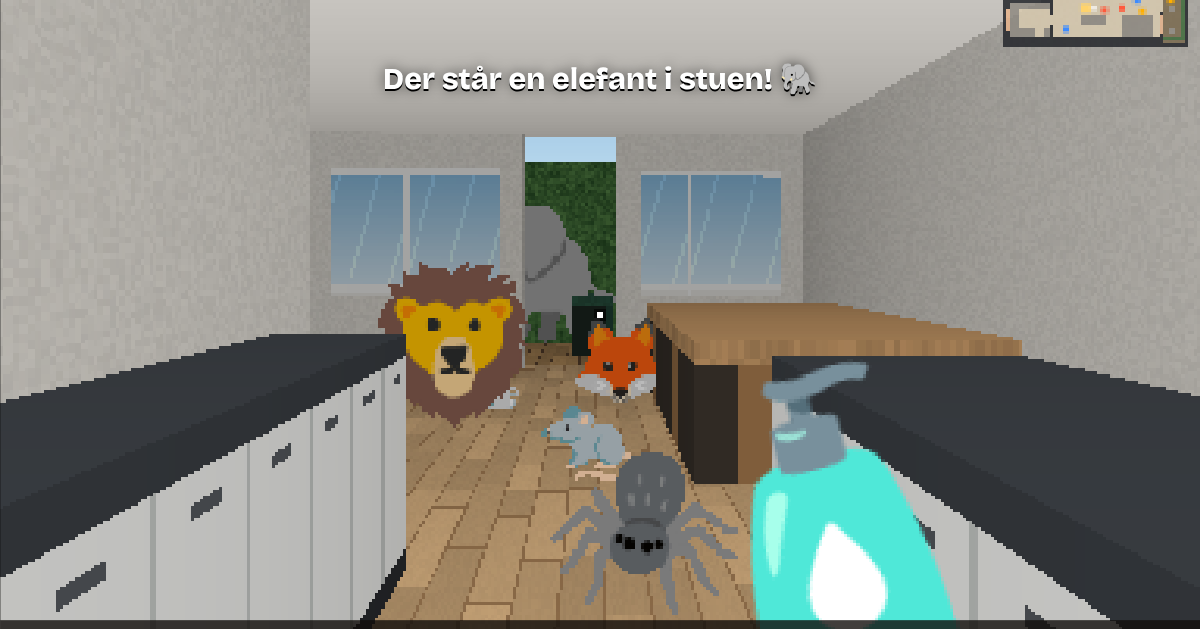
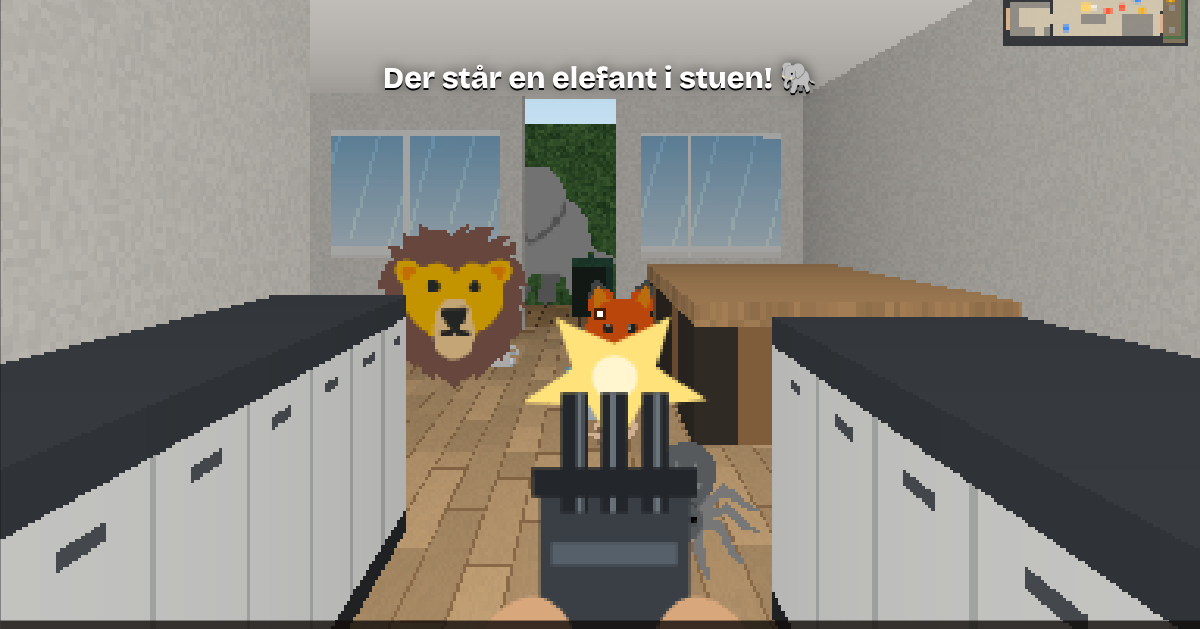
Doom i stuen: machine gun, mouse look, calmer animals
The slipper is replaced by an infinite machine gun with Doom-style
vertical auto-aim, and the spray bottle becomes a short-range splash
that wets everything in front of you. Mouse (or right thumb) now looks
up and down, so ankle biters can be seen without them hopping, and the
spiders zigzag less. Preview image regenerated.

Claude-Session: https://claude.ai/code/session_01HSinypRYzZhGHKTSv6HrUL

diff --git a/doom-i-stuen/index.html b/doom-i-stuen/index.html
@@ -4,9 +4,9 @@
 <meta charset="utf-8">
 <meta name="viewport" content="width=device-width, initial-scale=1, viewport-fit=cover">
 <title>Doom i stuen</title>
-<meta name="description" content="Stueetagen er fuld af dyr. Smæk edderkopperne med tøflen, sprøjt løverne ud på terrassen og få 100 dyr ud af Venøgade 20, st. th.">
-<meta property="og:title" content="Doom i stuen 🩴">
-<meta property="og:description" content="Smæk edderkopperne med tøflen, sprøjt løverne ud på terrassen og få 100 dyr ud af Venøgade 20, st. th.">
+<meta name="description" content="Stueetagen er fuld af dyr. Skyd edderkopperne med maskingeværet, sprøjt løverne ud på terrassen og få 100 dyr ud af Venøgade 20, st. th.">
+<meta property="og:title" content="Doom i stuen 🕷">
+<meta property="og:description" content="Skyd edderkopperne med maskingeværet, sprøjt løverne ud på terrassen og få 100 dyr ud af Venøgade 20, st. th.">
 <meta property="og:type" content="website">
 <meta property="og:image" content="https://fabiopierella.github.io/venoegade20/doom-i-stuen/preview.png">
 <meta property="og:url" content="https://fabiopierella.github.io/venoegade20/doom-i-stuen/">
@@ -133,9 +133,9 @@ body.fs .stage { position: fixed; inset: 0; width: 100%; height: 100%; max-heigh
 <body>
 <main>
   <h1>Doom i stuen</h1>
-  <p class="intro">Stueetagen er fuld af dyr. <strong>Smæk</strong> edderkopperne med tøflen, <strong>sprøjt</strong> løverne ud på terrassen og få <strong>100 dyr</strong> ud af lejligheden. Banen er Venøgade 20, st. th. i rigtige mål.</p>
+  <p class="intro">Stueetagen er fuld af dyr. <strong>Skyd</strong> edderkopperne med maskingeværet, <strong>sprøjt</strong> løverne ud på terrassen og få <strong>100 dyr</strong> ud af lejligheden. Banen er Venøgade 20, st. th. i rigtige mål.</p>
 
-  <div class="stage" id="stage" tabindex="0" aria-label="Spillet. WASD for at gå, mus for at sigte, klik for at smække.">
+  <div class="stage" id="stage" tabindex="0" aria-label="Spillet. WASD for at gå, mus for at sigte, klik for at skyde.">
     <canvas id="c"></canvas>
     <div class="glow" id="glow"></div>
     <div class="hurt" id="hurt"></div>
@@ -148,12 +148,12 @@ body.fs .stage { position: fixed; inset: 0; width: 100%; height: 100%; max-heigh
       <div class="stick" id="stick"><i id="knob"></i></div>
       <div class="hint" id="hint">← Gå her · Drej her →</div>
       <button type="button" id="wpnBtn" aria-label="Skift våben">🧴</button>
-      <button type="button" id="fireBtn" aria-label="Brug våben">SMÆK</button>
+      <button type="button" id="fireBtn" aria-label="Brug våben">SKYD</button>
     </div>
     <div class="bar">
       <div class="cell"><b id="hp">100</b><small>Kaffe ☕</small></div>
       <div class="face" id="face">😎</div>
-      <div class="cell"><b id="ammo">∞</b><small id="wname">Tøffel</small></div>
+      <div class="cell"><b id="ammo">∞</b><small id="wname">Maskingevær</small></div>
       <div class="cell"><b id="count">0/100</b><small>Dyr ude</small></div>
     </div>
     <div class="overlay" id="overlay">
@@ -167,7 +167,7 @@ body.fs .stage { position: fixed; inset: 0; width: 100%; height: 100%; max-heigh
   </div>
 
   <section class="win" id="win" hidden>
-    <h2>Stueetagen er sikret! 🩴</h2>
+    <h2>Stueetagen er sikret! 🏠</h2>
     <p id="winText">Alle 100 dyr er ude, og der er stadig kaffe på kanden. Spøg til side, her er hvad stueetagen på Venøgade 20 faktisk byder på:</p>
     <ul>
       <li>Egen terrasse direkte fra stuen (uden løver)</li>
@@ -443,21 +443,21 @@ body.fs .stage { position: fixed; inset: 0; width: 100%; height: 100%; max-heigh
 
   // ---------- monsters, weapons, pickups ----------
   const MT = {
-    spider:   { e: '🕷', name: 'Edderkoppen', hp: 1, spd: 150, h: 45, sep: 12, reach: 72, dmg: 5, cd: 0.9, small: true },
-    rat:      { e: '🐀', name: 'Rotten', hp: 2, spd: 185, h: 40, sep: 12, reach: 72, dmg: 7, cd: 1.0, small: true, flip: true },
+    spider:   { e: '🕷', name: 'Edderkoppen', hp: 1, spd: 150, h: 45, sep: 12, reach: 92, dmg: 5, cd: 0.9, small: true },
+    rat:      { e: '🐀', name: 'Rotten', hp: 2, spd: 185, h: 40, sep: 12, reach: 92, dmg: 7, cd: 1.0, small: true, flip: true },
     fox:      { e: '🦊', name: 'Ræven', hp: 4, spd: 210, h: 70, sep: 18, reach: 58, dmg: 10, cd: 1.1 },
     lion:     { e: '🦁', name: 'Løven', hp: 7, spd: 200, h: 115, sep: 26, reach: 72, dmg: 15, cd: 1.2 },
     elephant: { e: '🐘', name: 'Elefanten', hp: 14, spd: 105, h: 190, sep: 38, reach: 95, dmg: 22, cd: 1.6, flip: true }
   };
   const WPN = [
-    { name: 'Tøffel', e: '🩴', btn: 'SMÆK', key: '1' },
+    { name: 'Maskingevær', e: '🔫', btn: 'SKYD', key: '1' },
     { name: 'Sprayflaske', e: '🧴', btn: 'SPRØJT', key: '2' },
     { name: 'Støvsuger', e: '🌀', btn: 'SUG', key: '3' }
   ];
   const PICK = { coffee: { e: '☕', h: 26 }, water: { e: '💧', h: 26 }, battery: { e: '🔋', h: 28 } };
 
   // ---------- render buffers ----------
-  let W = 320, H = 200, PROJ = 160, HOR = 100;
+  let W = 320, H = 200, PROJ = 160, HOR0 = 84, HOR = 84;
   let img, buf32, depth, zWall, SKY;
   const segD = new Float32Array(64), segU = new Float32Array(64), segT = new Uint8Array(64), segS = new Uint8Array(64), segZ = new Uint8Array(64);
   function resize() {
@@ -465,12 +465,12 @@ body.fs .stage { position: fixed; inset: 0; width: 100%; height: 100%; max-heigh
     if (!r.width || !r.height) return;
     H = r.height > 520 ? 240 : 200;
     W = clamp(Math.round(H * r.width / r.height), 110, 520);
-    cv.width = W; cv.height = H; HOR = Math.round(H * 0.42);
+    cv.width = W; cv.height = H; HOR0 = H * 0.42; HOR = Math.round(HOR0 - look * H);
     PROJ = Math.min((W / 2) / Math.tan(37.5 * Math.PI / 180), (H / 2) / Math.tan(34 * Math.PI / 180));
     img = ctx.createImageData(W, H); buf32 = new Uint32Array(img.data.buffer);
     depth = new Float32Array(W * H); zWall = new Float32Array(W);
-    SKY = new Uint32Array(H);
-    for (let y = 0; y < H; y++) { const c = lerpC(0x6fa9d8, 0xd2e8f4, clamp(y / HOR, 0, 1)); SKY[y] = 0xff000000 | ((c & 255) << 16) | (c & 0xff00) | ((c >> 16) & 255); }
+    SKY = new Uint32Array(256);
+    for (let k = 0; k < 256; k++) { const c = lerpC(0xd2e8f4, 0x6fa9d8, k / 255); SKY[k] = 0xff000000 | ((c & 255) << 16) | (c & 0xff00) | ((c >> 16) & 255); }
     mm = null;
     if (state !== 'play') draw();
   }
@@ -526,7 +526,7 @@ body.fs .stage { position: fixed; inset: 0; width: 100%; height: 100%; max-heigh
       const yc = Math.min(H, Math.ceil(wTop - 0.5));
       for (let y = 0; y < yc; y++) {
         const rd = (CEIL - EYE) * PROJ / (HOR - y - 0.5), c = cellOf(P.x + rx * rd, P.y + ry * rd), i = y * W + x;
-        if (c < 0 || zone[c] === 2) buf32[i] = SKY[y];
+        if (c < 0 || zone[c] === 2) buf32[i] = SKY[Math.min(255, ((HOR - y) * 300 / H) | 0)];
         else { const v = (239 * fog(rd)) | 0; buf32[i] = 0xff000000 | ((v - 8) << 16) | ((v - 3) << 8) | v; }
         depth[i] = rd;
       }
@@ -627,7 +627,7 @@ body.fs .stage { position: fixed; inset: 0; width: 100%; height: 100%; max-heigh
     env(g, t, vol, dur); o.connect(g).connect(master); o.start(t); o.stop(t + dur + 0.05);
   }
   const SFX = {
-    slap: () => { noise(0.07, 3000, 900, 'highpass', 0.7, 0.7); tone('square', 180, 60, 0.06, 0.15); },
+    gun: () => { noise(0.06, 2200, 300, 'lowpass', 0.8, 0.5); tone('square', 130, 50, 0.05, 0.12); },
     swish: () => noise(0.16, 500, 2400, 'bandpass', 2, 0.18),
     spray: () => noise(0.11, 5000, 3200, 'bandpass', 1.2, 0.22),
     empty: () => tone('square', 900, 850, 0.04, 0.08),
@@ -657,8 +657,8 @@ body.fs .stage { position: fixed; inset: 0; width: 100%; height: 100%; max-heigh
   const P = { x: 700, y: 380, a: 0, r: 14, hp: 100 };
   let mons = [], picks = [], fx = [], drops = [];
   let done = 0, spawned = 0, spawnT = 0, pickT = 0, elapsed = 0, time = 0;
-  let wpn = 0, water = 50, battery = 0, hasVac = false, cdW = 0, swing = 0, firing = false, vacOn = false;
-  let hurtA = 0, glowA = 0, faceT = 0, faceE = '', msgT = 0, bob = 0, moveAmt = 0, shake = 0, lastPC = -1;
+  let wpn = 0, water = 20, battery = 0, hasVac = false, cdW = 0, swing = 0, firing = false, vacOn = false;
+  let muzzle = false, look = 0, hurtA = 0, glowA = 0, faceT = 0, faceE = '', msgT = 0, bob = 0, moveAmt = 0, shake = 0, lastPC = -1;
   let seen = {};
   let showMap = load('doom-i-stuen-kort', true);
   let best = load('doom-i-stuen-bedst', 0);
@@ -667,7 +667,7 @@ body.fs .stage { position: fixed; inset: 0; width: 100%; height: 100%; max-heigh
     Object.assign(P, { x: 700, y: 380, a: 0, hp: 100 });
     mons = []; picks = []; fx = []; drops = [];
     done = 0; spawned = 0; spawnT = 1.2; pickT = 6; elapsed = 0;
-    wpn = 0; water = 50; battery = 0; hasVac = false; cdW = 0; swing = 0; firing = false;
+    wpn = 0; water = 20; battery = 0; look = 0; hasVac = false; cdW = 0; swing = 0; firing = false;
     hurtA = 0; glowA = 0; faceT = 0; seen = {}; lastPC = -1;
     picks.push({ t: 'coffee', x: 1020, y: 330 }, { t: 'water', x: 450, y: 560 });
     updateHud(true);
@@ -726,7 +726,7 @@ body.fs .stage { position: fixed; inset: 0; width: 100%; height: 100%; max-heigh
   }
   function spawnPickup() {
     if (picks.length >= 4) return;
-    const need = [['coffee', (100 - P.hp) / 100 * 3 + 0.25], ['water', (80 - water) / 80 * 3 + 0.25], ['battery', hasVac ? (100 - battery) / 100 * 3 + 0.25 : 0]];
+    const need = [['coffee', (100 - P.hp) / 100 * 3 + 0.25], ['water', (40 - water) / 40 * 3 + 0.25], ['battery', hasVac ? (100 - battery) / 100 * 3 + 0.25 : 0]];
     let s = need.reduce((a, b) => a + b[1], 0) * Math.random(), t = 'coffee';
     for (const [k, v] of need) { if ((s -= v) < 0) { t = k; break; } }
     for (let tries = 0; tries < 40; tries++) {
@@ -776,34 +776,33 @@ body.fs .stage { position: fixed; inset: 0; width: 100%; height: 100%; max-heigh
     if (m.hp <= 0) scored(m, how);
     else if (!d.small) { if (m.t === 'fox') SFX.yelp(); else noise(0.15, 300, 120, 'lowpass', 1, 0.25); }
   }
-  function slap() {
-    cdW = 0.38; swing = 0.28;
+  function gun() {
+    cdW = 0.1; swing = 0.1; muzzle = !muzzle; SFX.gun(); glowA = Math.max(glowA, 0.12);
+    // vertical aim is automatic, like the original Doom
     let bestM = null, bd = 1e9;
     for (const m of mons) {
       if (m.state !== 'chase') continue;
       const c = cam(m);
-      if (c.dep > 0 && c.dep < 105 + MT[m.t].sep && Math.abs(c.lat) < c.dep * 0.85 + 22 && c.dep < bd) { bd = c.dep; bestM = m; }
-    }
-    if (!bestM) { SFX.swish(); return; }
-    SFX.slap();
-    const d = MT[bestM.t], ux = (bestM.x - P.x) / (bd || 1), uy = (bestM.y - P.y) / (bd || 1);
-    if (!d.small) once('slap-' + bestM.t, d.name + ' griner af tøflen. Prøv sprayflasken! 🧴', 2.4);
-    hit(bestM, d.small ? 2 : 1, ux * 35, uy * 35, 'slap');
-  }
-  function spray() {
-    if (water <= 0) { cdW = 0.35; SFX.empty(); once('dry', 'Sprayflasken er tom. Find 💧', 2); return; }
-    water--; cdW = 0.16; swing = 0.12; SFX.spray(); updateHud();
-    for (let i = 0; i < 5; i++) drops.push({ t: 0, life: 0.18 + Math.random() * 0.08, ox: (Math.random() - 0.5) * 0.06, oy: (Math.random() - 0.5) * 0.06 });
-    let bestM = null, bd = 1e9;
-    for (const m of mons) {
-      if (m.state !== 'chase') continue;
-      const c = cam(m);
-      if (c.vis && c.dep < 650 && Math.abs(c.lat) < halfW(m) * 0.85 + 10 && c.dep < bd) { bd = c.dep; bestM = m; }
+      if (c.vis && c.dep < 1500 && Math.abs(c.lat) < halfW(m) * 0.8 + 6 + c.dep * 0.02 && c.dep < bd) { bd = c.dep; bestM = m; }
     }
     if (!bestM) return;
     const ux = (bestM.x - P.x) / bd, uy = (bestM.y - P.y) / bd;
-    fx.push({ x: bestM.x - ux * 15, y: bestM.y - uy * 15, z: MT[bestM.t].h * 0.4, h: 30, e: '💦', life: 0.2 });
-    hit(bestM, 1, ux * 14, uy * 14, 'spray');
+    fx.push({ x: bestM.x - ux * 12, y: bestM.y - uy * 12, z: MT[bestM.t].h * (0.25 + Math.random() * 0.4), h: 16, e: '💥', life: 0.07 });
+    hit(bestM, 1, ux * 6, uy * 6, 'shot');
+  }
+  function spray() {
+    if (water <= 0) { cdW = 0.35; SFX.empty(); once('dry', 'Sprayflasken er tom. Find 💧', 2); return; }
+    water--; cdW = 0.55; swing = 0.2; SFX.spray(); updateHud();
+    for (let i = 0; i < 12; i++) drops.push({ t: 0, life: 0.18 + Math.random() * 0.1, ox: (Math.random() - 0.5) * 0.3, oy: (Math.random() - 0.5) * 0.18 });
+    // a wide splash: everything in the cone gets wet
+    for (const m of mons) {
+      if (m.state !== 'chase') continue;
+      const c = cam(m);
+      if (!c.vis || c.dep > 450 || Math.abs(c.lat) > c.dep * 0.16 + halfW(m) * 0.8 + 10) continue;
+      const ux = (m.x - P.x) / c.dep, uy = (m.y - P.y) / c.dep;
+      fx.push({ x: m.x - ux * 15, y: m.y - uy * 15, z: MT[m.t].h * 0.4, h: 30, e: '💦', life: 0.2 });
+      hit(m, 3, ux * 30, uy * 30, 'spray');
+    }
   }
   function vacuum(dt) {
     if (battery <= 0) { battery = 0; vacOn = false; once('flat', 'Støvsugeren er løbet tør. Find 🔋', 2); return; }
@@ -823,6 +822,7 @@ body.fs .stage { position: fixed; inset: 0; width: 100%; height: 100%; max-heigh
     if (state !== 'play') return;
     P.hp -= dmg; hurtA = Math.min(0.9, hurtA + 0.35 + dmg / 40); shake = reduce ? 0 : 0.18;
     face('😣', 0.45); SFX.hurt();
+    if (MT[m.t].small) once('ankle', document.body.classList.contains('tm') ? 'Av, anklen! Træk ned med højre tommel for at kigge ned 👇' : 'Av, anklen! Kig ned med musen 👇', 2.6);
     if (m.t === 'lion' && Math.random() < 0.5) SFX.roar();
     updateHud();
     if (P.hp <= 0) lose();
@@ -830,7 +830,7 @@ body.fs .stage { position: fixed; inset: 0; width: 100%; height: 100%; max-heigh
 
   // ---------- update ----------
   const keys = {};
-  let lookDX = 0, stickX = 0, stickY = 0;
+  let lookDX = 0, lookDY = 0, stickX = 0, stickY = 0;
   function update(dt) {
     elapsed += dt;
     // player
@@ -839,6 +839,8 @@ body.fs .stage { position: fixed; inset: 0; width: 100%; height: 100%; max-heigh
     let str = (keys.KeyD ? 1 : 0) - (keys.KeyA ? 1 : 0) + stickX;
     const turn = (keys.ArrowRight ? 1 : 0) - (keys.ArrowLeft ? 1 : 0);
     P.a += turn * 2.6 * dt + lookDX; lookDX = 0;
+    look = clamp(look + lookDY, -0.35, 0.6); lookDY = 0;
+    HOR = Math.round(HOR0 - look * H);
     const len = Math.hypot(fwd, str);
     if (len > 1) { fwd /= len; str /= len; }
     const spd = 260 * dt;
@@ -853,7 +855,7 @@ body.fs .stage { position: fixed; inset: 0; width: 100%; height: 100%; max-heigh
     vacOn = false;
     if (firing && state === 'play') {
       if (wpn === 2) vacuum(dt);
-      else if (cdW <= 0) { if (wpn === 0) slap(); else spray(); }
+      else if (cdW <= 0) { if (wpn === 0) gun(); else spray(); }
     }
     vacuumSound(vacOn);
     if (wpn === 2) updateHud();
@@ -880,7 +882,7 @@ body.fs .stage { position: fixed; inset: 0; width: 100%; height: 100%; max-heigh
         if (bestC >= 0) { tx = cellCX(bestC); ty = cellCY(bestC); } else { tx = m.state === 'flee' ? m.x + m.vx : P.x; ty = m.state === 'flee' ? m.y + m.vy : P.y; }
       }
       let dx = tx - m.x, dy = ty - m.y; const dl = Math.hypot(dx, dy) || 1; dx /= dl; dy /= dl;
-      if (m.t === 'spider' && m.state === 'chase') { const z = Math.sin(time * 7 + m.seed) * 0.7; const ndx = dx - dy * z, ndy = dy + dx * z; dx = ndx; dy = ndy; }
+      if (m.t === 'spider' && m.state === 'chase') { const z = Math.sin(time * 4 + m.seed) * 0.35; const ndx = dx - dy * z, ndy = dy + dx * z; dx = ndx; dy = ndy; }
       let sp = d.spd * (m.state === 'flee' ? 1.7 : 1) * (m.stun > 0 ? 0.25 : 1);
       if (m.state === 'chase' && dist < d.reach * 0.8) sp = 0;
       m.vx = dx * sp; m.vy = dy * sp;
@@ -911,7 +913,7 @@ body.fs .stage { position: fixed; inset: 0; width: 100%; height: 100%; max-heigh
     for (const p of picks) {
       if (Math.hypot(p.x - P.x, p.y - P.y) > 40) continue;
       if (p.t === 'coffee' && P.hp < 100) { P.hp = Math.min(100, P.hp + 25); p.got = true; msg('+25 kaffe ☕', 1); }
-      if (p.t === 'water' && water < 80) { water = Math.min(80, water + 25); p.got = true; msg('+25 vand 💧', 1); }
+      if (p.t === 'water' && water < 40) { water = Math.min(40, water + 10); p.got = true; msg('+10 vand 💧', 1); }
       if (p.t === 'battery' && battery < 100) { battery = Math.min(100, battery + 40); p.got = true; msg('+40 strøm 🔋', 1); }
       if (p.got) { SFX.pickup(); glowA = 0.6; updateHud(); }
     }
@@ -941,11 +943,7 @@ body.fs .stage { position: fixed; inset: 0; width: 100%; height: 100%; max-heigh
         else { addSprite(m.x, m.y, 5, 45, m.how === 'spray' ? '💦' : '💥'); continue; }
       }
       if (m.state === 'flee') z = Math.abs(Math.sin(time * 14 + m.seed)) * d.h * 0.12;
-      else if (d.small) {
-        // small animals hop, and leap at you up close, so they stay in view
-        const near = Math.hypot(m.x - P.x, m.y - P.y) < 170;
-        z = (near ? 22 : 0) + Math.abs(Math.sin(time * (near ? 9 : 16) + m.seed)) * (near ? 38 : 5);
-      }
+      else if (d.small) z = Math.abs(Math.sin(time * 14 + m.seed)) * 3;
       const lateral = -m.vx * sa + m.vy * ca;
       addSprite(m.x, m.y, z, d.h, d.e, d.flip && lateral > 0, m.flash > 0, scale);
       if (m.state === 'flee') addSprite(m.x - m.vx * 0.12, m.y - m.vy * 0.12, 5, d.h * 0.35, '💨');
@@ -969,10 +967,33 @@ body.fs .stage { position: fixed; inset: 0; width: 100%; height: 100%; max-heigh
     const sh = shake > 0 ? (Math.random() - 0.5) * 4 : 0;
     const S = Math.min(H, W * 0.9);
     if (wpn === 0) {
-      const k = swing > 0 ? Math.sin((1 - swing / 0.28) * Math.PI) : 0;
-      emojiAt('🩴', W / 2 + S * 0.36 - k * S * 0.3 + bx + sh, H - S * 0.16 - k * S * 0.18 + by, S * 0.5, -0.5 - k * 1.1);
+      // machine gun, drawn in the style of Doom's chaingun
+      const k = swing > 0 ? swing / 0.1 : 0, gx = W / 2 + bx + sh, gy = H + by + k * S * 0.025;
+      const bw = S * 0.2, top = gy - S * 0.42;
+      if (k > 0.3) {
+        ctx.fillStyle = muzzle ? '#ffe27a' : '#ffb347';
+        ctx.beginPath();
+        for (let i = 0; i < 10; i++) {
+          const a = i / 10 * Math.PI * 2 + (muzzle ? 0.3 : 0), rr = (i % 2 ? 0.045 : 0.1) * S;
+          ctx.lineTo(gx + Math.cos(a) * rr * 1.3, top - S * 0.02 + Math.sin(a) * rr);
+        }
+        ctx.fill();
+        ctx.fillStyle = '#fff6d0'; ctx.beginPath(); ctx.arc(gx, top - S * 0.02, S * 0.03, 0, Math.PI * 2); ctx.fill();
+      }
+      ctx.fillStyle = '#3a3f45'; ctx.fillRect(gx - bw / 2, top + S * 0.12, bw, S * 0.32);
+      const spin = (time * (firing ? 30 : 2)) % 1;
+      for (let i = 0; i < 3; i++) {
+        const x = gx - bw * 0.36 + i * bw * 0.27;
+        ctx.fillStyle = '#23272b'; ctx.fillRect(x, top, bw * 0.18, S * 0.16);
+        ctx.fillStyle = '#6b737b'; ctx.fillRect(x + bw * 0.04 + ((spin + i / 3) % 1) * bw * 0.08, top, bw * 0.04, S * 0.16);
+      }
+      ctx.fillStyle = '#23272b'; ctx.fillRect(gx - bw * 0.55, top + S * 0.1, bw * 1.1, S * 0.04);
+      ctx.fillStyle = '#56606a'; ctx.fillRect(gx - bw * 0.42, top + S * 0.2, bw * 0.84, S * 0.03);
+      ctx.fillStyle = '#d9a77c';
+      ctx.beginPath(); ctx.ellipse(gx - bw * 0.62, gy - S * 0.05, S * 0.07, S * 0.1, 0.3, 0, Math.PI * 2); ctx.fill();
+      ctx.beginPath(); ctx.ellipse(gx + bw * 0.62, gy - S * 0.05, S * 0.07, S * 0.1, -0.3, 0, Math.PI * 2); ctx.fill();
     } else if (wpn === 1) {
-      const k = swing > 0 ? swing / 0.12 : 0;
+      const k = swing > 0 ? swing / 0.2 : 0;
       const nx = W / 2 + S * 0.22 + bx, ny = H - S * 0.3 + by;
       for (const d of drops) {
         const t = d.t / d.life;
@@ -1019,13 +1040,13 @@ body.fs .stage { position: fixed; inset: 0; width: 100%; height: 100%; max-heigh
   function showOverlay(title, sub, row) { ovTitle.textContent = title; ovSub.innerHTML = sub; ovRow.hidden = !row; overlay.hidden = false; }
   function controlsText() {
     return document.body.classList.contains('tm')
-      ? 'Venstre tommel går, højre tommel drejer, den røde knap smækker. Den lille knap skifter våben.'
-      : '<span class="keys">WASD: gå · Mus: sigt · Klik: smæk<br>1 2 3 eller Q E: skift våben · M: kort</span>';
+      ? 'Venstre tommel går. Højre tommel drejer og kigger op og ned. Den røde knap skyder, den lille skifter våben.'
+      : '<span class="keys">WASD: gå · Mus: sigt og kig op og ned · Klik: skyd<br>1 2 3 eller Q E: skift våben · M: kort</span>';
   }
   function titleScreen() {
     state = 'title';
     showOverlay(document.body.classList.contains('tm') ? 'Tryk for at starte' : 'Klik for at starte',
-      'Edderkopper og rotter får tøflen. Ræve, løver og elefanter jager du ud med sprayflasken.<br>' + controlsText());
+      'Edderkopper og rotter får maskingeværet. Ræve, løver og elefanter flygter ud, når de har fået nok.<br>' + controlsText());
   }
   function start() {
     initAudio();
@@ -1057,7 +1078,7 @@ body.fs .stage { position: fixed; inset: 0; width: 100%; height: 100%; max-heigh
     state = 'won'; firing = false; vacuumSound(false); SFX.fanfare(); endLayout();
     const t = elapsed, nb = !best || t < best;
     if (nb) { best = t; save('doom-i-stuen-bedst', Math.round(t)); }
-    showOverlay('Stueetagen er sikret! 🩴', `100 dyr ude på ${fmt(t)}. ${nb ? 'Ny rekord!' : 'Rekord: ' + fmt(best)}`);
+    showOverlay('Stueetagen er sikret! 🏠', `100 dyr ude på ${fmt(t)}. ${nb ? 'Ny rekord!' : 'Rekord: ' + fmt(best)}`);
     winText.textContent = `Alle 100 dyr er ude på ${fmt(t)}, og der er stadig kaffe på kanden. Spøg til side, her er hvad stueetagen på Venøgade 20 faktisk byder på:`;
     winEl.hidden = false;
     setTimeout(() => winEl.scrollIntoView({ behavior: reduce ? 'auto' : 'smooth', block: 'nearest' }), 300);
@@ -1072,8 +1093,8 @@ body.fs .stage { position: fixed; inset: 0; width: 100%; height: 100%; max-heigh
   document.addEventListener('pointerlockchange', () => { if (!document.pointerLockElement && state === 'play' && !document.body.classList.contains('tm')) pause(); });
   document.addEventListener('mousemove', e => {
     if (state !== 'play') return;
-    if (document.pointerLockElement === stage) lookDX += e.movementX * 0.0026;
-    else if (noLock && (e.buttons & 1)) lookDX += e.movementX * 0.006;
+    if (document.pointerLockElement === stage) { lookDX += e.movementX * 0.0026; lookDY += e.movementY * 0.0014; }
+    else if (noLock && (e.buttons & 1)) { lookDX += e.movementX * 0.006; lookDY += e.movementY * 0.003; }
   });
   window.addEventListener('keydown', e => {
     if (state !== 'play') {
@@ -1122,7 +1143,7 @@ body.fs .stage { position: fixed; inset: 0; width: 100%; height: 100%; max-heigh
 
   // ---------- input: touch ----------
   const stick = $('stick'), knob = $('knob'), fireBtn = $('fireBtn');
-  let stickId = null, lookId = null, sx0 = 0, sy0 = 0, lookX = 0;
+  let stickId = null, lookId = null, sx0 = 0, sy0 = 0, lookX = 0, lookY = 0;
   stage.addEventListener('pointerdown', e => {
     if (e.pointerType === 'mouse') return;
     if (!document.body.classList.contains('tm')) { document.body.classList.add('tm'); }
@@ -1133,7 +1154,7 @@ body.fs .stage { position: fixed; inset: 0; width: 100%; height: 100%; max-heigh
       stickId = e.pointerId; sx0 = e.clientX - r.left; sy0 = e.clientY - r.top;
       stick.style.left = sx0 + 'px'; stick.style.top = sy0 + 'px'; stick.style.display = 'block'; knob.style.transform = '';
       $('hint').style.display = 'none';
-    } else if (lookId === null) { lookId = e.pointerId; lookX = e.clientX; }
+    } else if (lookId === null) { lookId = e.pointerId; lookX = e.clientX; lookY = e.clientY; }
     try { stage.setPointerCapture(e.pointerId); } catch (err) {}
   });
   stage.addEventListener('pointermove', e => {
@@ -1145,8 +1166,8 @@ body.fs .stage { position: fixed; inset: 0; width: 100%; height: 100%; max-heigh
       knob.style.transform = `translate(${dx}px, ${dy}px)`;
       stickX = dx / R; stickY = dy / R;
     } else if (e.pointerId === lookId) {
-      if (state === 'play') lookDX += (e.clientX - lookX) * 0.0075;
-      lookX = e.clientX;
+      if (state === 'play') { lookDX += (e.clientX - lookX) * 0.0075; lookDY += (e.clientY - lookY) * 0.0035; }
+      lookX = e.clientX; lookY = e.clientY;
     }
   });
   function endTouch(e) {
